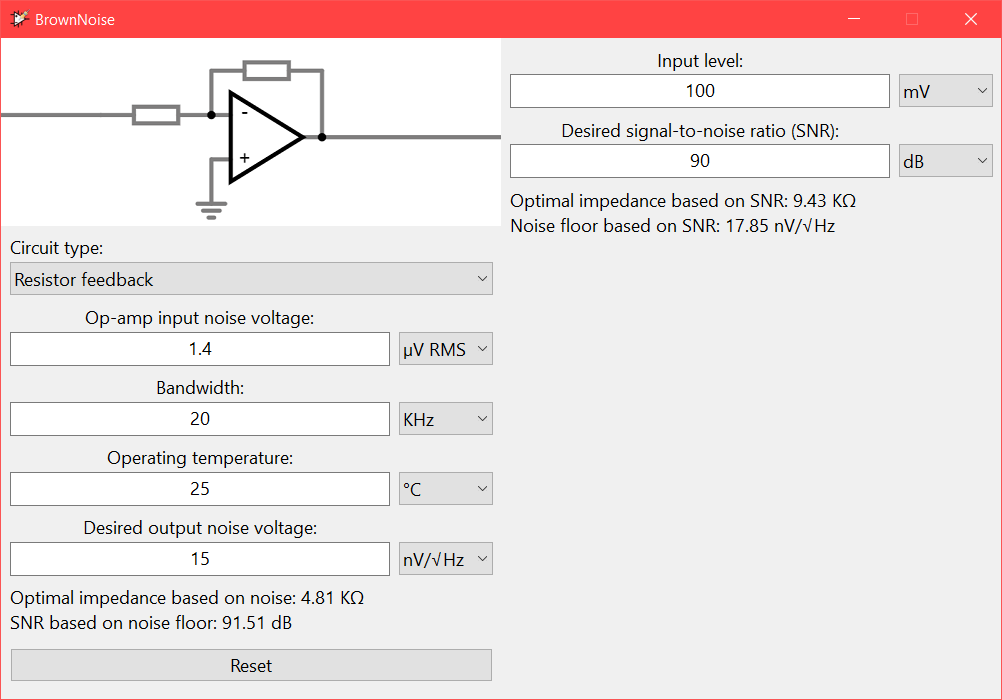
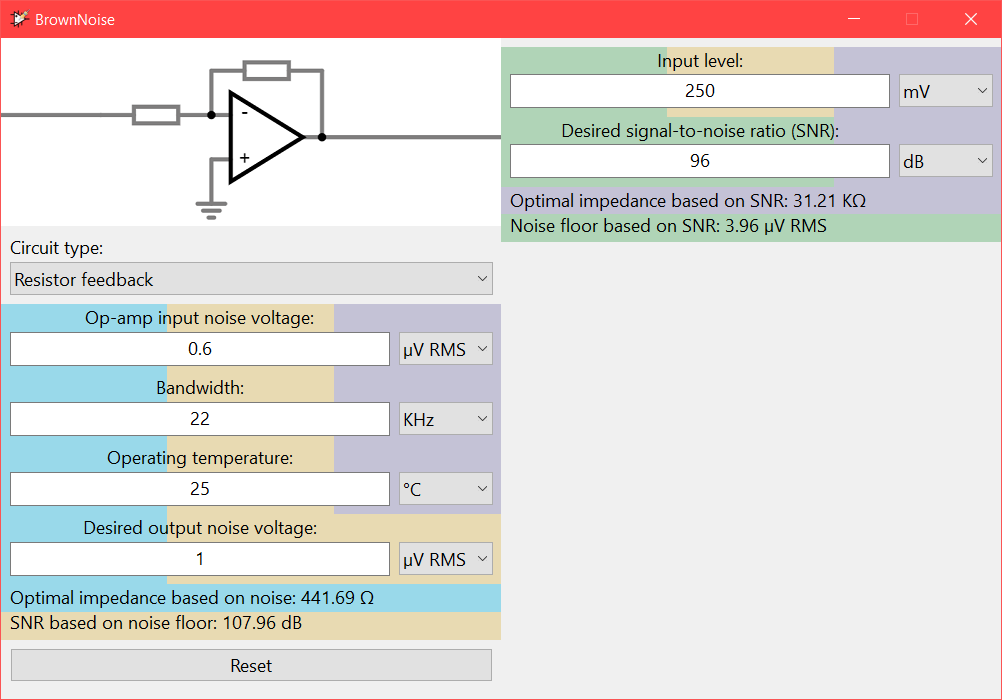
New release

Changed region(s): [[0.0, 0.42, 0.5259, 0.93], [0.495, 0.06, 1.0, 0.36]]

diff --git a/README.md b/README.md
@@ -17,8 +17,8 @@ This application allows users to enter in desired operating temperature and op-a
 ### Normal feedback mode
 ![Normal feedback](./img/normal.png)
 
-### Integrator (capacitive) feedback mode
-![Integrator](./img/integrator.png)
+### Optimal impedance calculations based on SNR
+![Integrator](./img/snrimpedance.png)
 
 
 # Obtaining
@@ -28,6 +28,8 @@ This application allows users to enter in desired operating temperature and op-a
 
 # Changelog
 
+* 0.6.2
+	* [x] Color-coding to show which values affect which results
 * 0.6.1
 	* [x] Calculations as flexible as possible
 * 0.6
